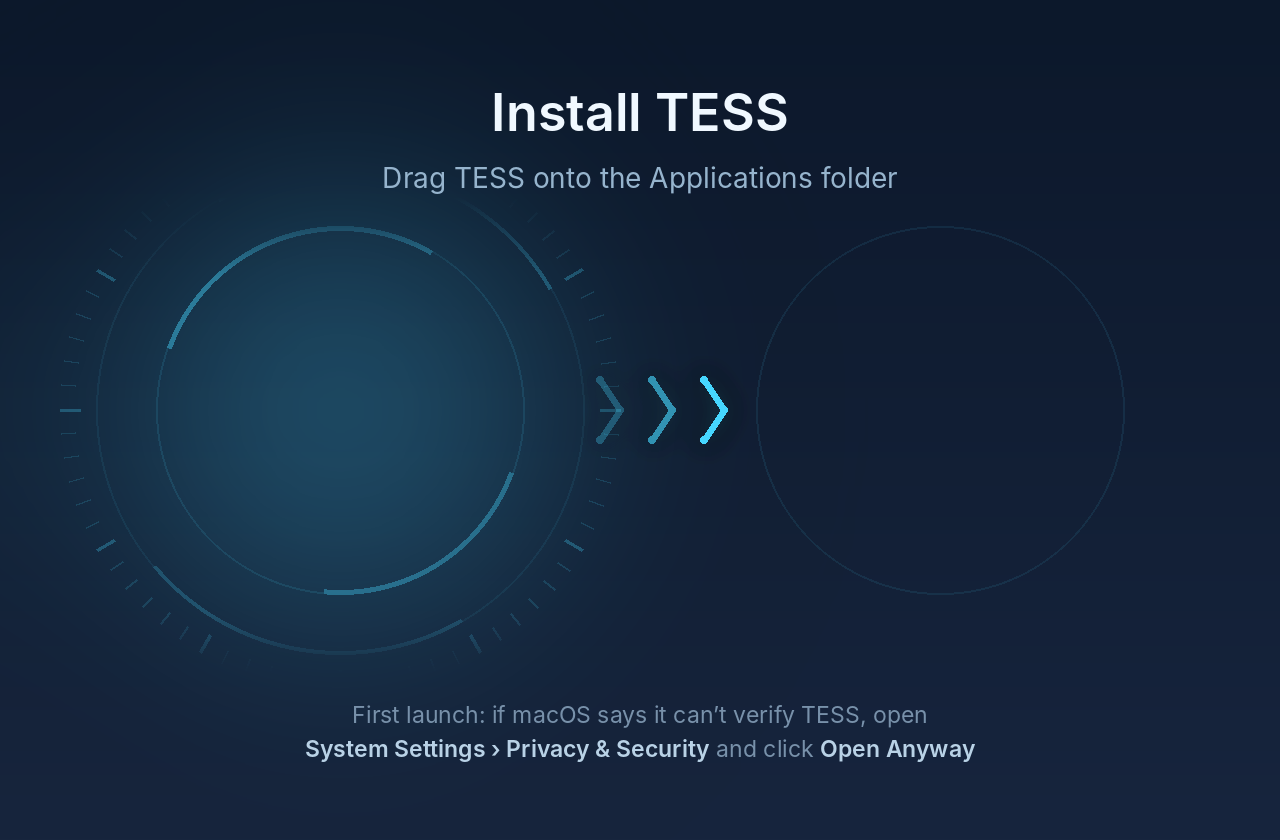
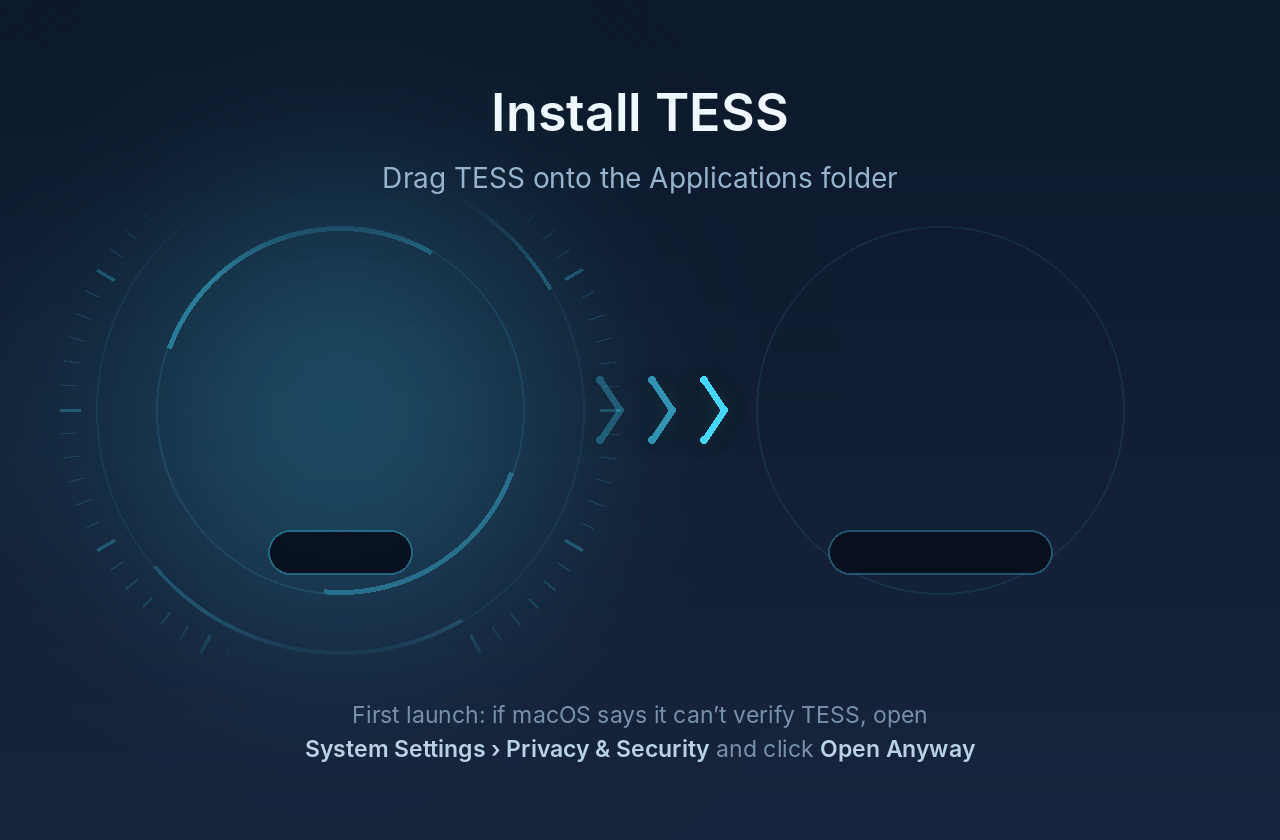
Installer: dark name pills so Finder draws both names in white
Finder picks each icon name's colour from the brightness of the picture right
under it, so "TESS" (over the cyan glow) came out dark while "Applications" was
white. Dark pills under both names make both white. The window is also sized to
show the whole 420-point background under the title bar.

Claude-Session: https://claude.ai/code/session_01UKMjBYccsc8mzKjT8iuKSx

Changed region(s): [[0.625, 0.619, 0.8438, 0.7119], [0.1875, 0.619, 0.3438, 0.7119]]

diff --git a/scripts/dmg-background.py b/scripts/dmg-background.py
@@ -63,6 +63,13 @@ for cxv,op in [(310,0.30),(336,0.62),(362,1.0)]:
 glow=a.filter(ImageFilter.GaussianBlur(6*S))
 img.paste(glow,(0,0),glow); img.paste(glow,(0,0),glow); img.paste(a,(0,0),a)
 
+# Name pills: dark, so Finder (which judges the brightness right under each name) draws both names in white.
+p_=layer(); pd=ImageDraw.Draw(p_)
+for (lx,ly),wd in [(ICON,72),(APPS,112)]:
+    pd.rounded_rectangle([(lx-wd/2)*S,(ly+60)*S,(lx+wd/2)*S,(ly+82)*S],radius=11*S,
+                         fill=(7,14,27,235),outline=(70,215,255,70),width=S)
+img.paste(p_,(0,0),p_)
+
 d=ImageDraw.Draw(img)
 import os
 F=os.environ.get("INTER_DIR","/usr/share/fonts/opentype/inter/")

diff --git a/scripts/dmg-settings.py b/scripts/dmg-settings.py
@@ -17,7 +17,7 @@ icon = defines.get("volume_icon")
 background = defines["background"]
 
 # The background is 640×420 (the window adds a title bar); icon positions are the centres of the icons.
-window_rect = ((200, 140), (640, 440))  # +20 for the title bar
+window_rect = ((200, 140), (640, 453))  # 420 + the 33-point title bar
 default_view = "icon-view"
 show_status_bar = False
 show_tab_view = False
